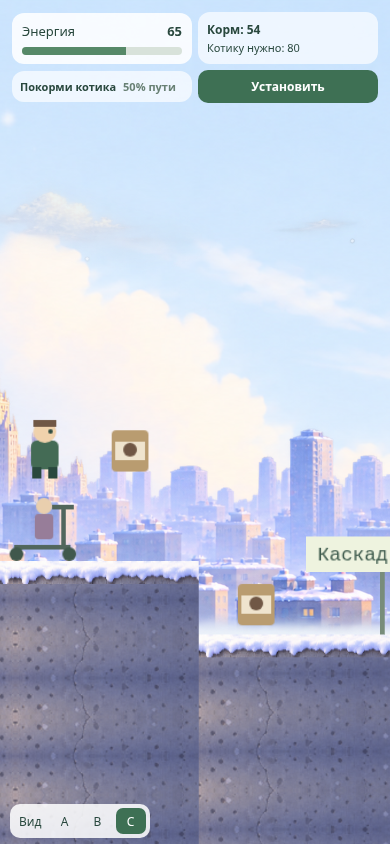
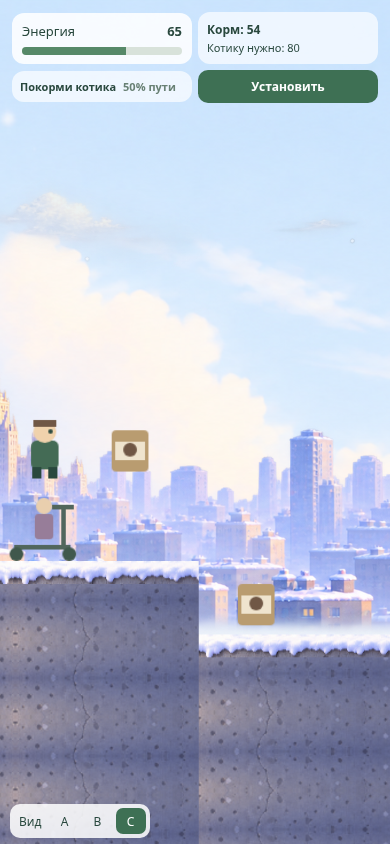
Add chunky floating islands and pit rubbish; remove lamps and billboards

Changed region(s): [[0.7692, 0.6161, 1.0, 0.7701]]

diff --git a/src/winter-environment.ts b/src/winter-environment.ts
@@ -20,7 +20,7 @@ export class WinterEnvironment {
   static preload(scene: Phaser.Scene) {
     for (const { file } of environmentAssets) {
       // No current four-step staircase matches this sprite's silhouette.
-      if (file === 'stairs_winter.png') continue;
+      if (['stairs_winter.png', 'streetlamp_winter.png', 'hazard_slush.png'].includes(file)) continue;
       const key = `environment:${file}`;
       if (!scene.textures.exists(key)) scene.load.image(key, `${import.meta.env.BASE_URL}assets/environment/winter/${file}`);
     }
@@ -75,16 +75,23 @@ export class WinterEnvironment {
     }
     for (const p of s.routePlatforms) {
       const file = p.width <= 100 ? 'platform_floating_small.png' : 'platform_short.png';
-      const cap = this.snow(file, p.width, 5, 0, 1);
-      const c = canvas(p.width * resolution, s.platformThickness * resolution), ctx = c.getContext('2d')!;
-      ctx.scale(resolution, resolution);
-      ctx.fillStyle = '#9498b0'; ctx.fillRect(0, 0, p.width, s.platformThickness);
-      const source = this.source(file), [x0, , x1] = this.bounds(file);
-      ctx.drawImage(source, x0, 405, x1 - x0, 65, 0, 4, p.width, s.platformThickness - 4);
-      ctx.drawImage(cap, 0, 0, p.width, 5);
-      ctx.strokeStyle = '#5b7189'; ctx.setLineDash([5, 4]); ctx.lineWidth = 1;
-      ctx.beginPath(); ctx.moveTo(0, s.platformThickness - .5); ctx.lineTo(p.width, s.platformThickness - .5); ctx.stroke();
-      this.image(c, `platform:${p.x}`, p.x, p.y, depth.terrain);
+      const height = Math.max(30, Math.round(p.width * .32));
+      const c = canvas(p.width * resolution, height * resolution), ctx = c.getContext('2d')!;
+      const source = this.source(file), [x0, , x1, y1] = this.bounds(file);
+      // Keep the full stone and icicle silhouette instead of compressing it
+      // into the 12px physics proxy. Only the top is collidable (one-way).
+      const sample = canvas(source.width, source.height), sampleCtx = sample.getContext('2d')!;
+      sampleCtx.drawImage(source, 0, 0);
+      const pixels = sampleCtx.getImageData(0, 0, sample.width, sample.height).data;
+      for (let x = 0; x < c.width; x++) {
+        const sx = Math.min(x1 - 1, Math.floor(x0 + (x1 - x0) * x / c.width));
+        let top = 0;
+        while (top < y1 - 1 && pixels[(top * source.width + sx) * 4 + 3] < 128) top++;
+        ctx.drawImage(source, sx, top, 1, y1 - top, x, 0, 1, c.height);
+      }
+      // Solid terrain clips the decorative underside at the closest low ledge;
+      // it must never paint over a real lower-route surface.
+      this.image(c, `platform:${p.x}`, p.x, p.y, depth.terrain - .5);
     }
     WinterEnvironment.baked.set(scene.textures, this.bakedEntries);
     this.finishCreate();
@@ -131,15 +138,16 @@ export class WinterEnvironment {
   }
 
   private slush(x: number, width: number, y: number) {
-    const file = 'hazard_slush.png', [x0, y0, x1, y1] = this.bounds(file);
-    const c = canvas(width * resolution, 12 * resolution), ctx = c.getContext('2d')!;
+    const file = 'pit_rubbish_winter.png', [x0, y0, x1, y1] = this.bounds(file);
+    const height = 30;
+    const c = canvas(width * resolution, height * resolution), ctx = c.getContext('2d')!;
     ctx.scale(resolution, resolution);
-    // Whole silhouette for a small pit; repeated modules for the boost pit.
-    for (let dx = 0; dx < width; dx += 135) {
-      const w = Math.min(135, width - dx);
-      ctx.drawImage(this.source(file), x0, y0, (x1 - x0) * w / Math.min(width, 135), y1 - y0, dx, 0, w, 12);
+    const moduleWidth = 180;
+    for (let dx = 0; dx < width; dx += moduleWidth) {
+      const w = Math.min(moduleWidth, width - dx);
+      ctx.drawImage(this.source(file), x0, y0, (x1 - x0) * w / moduleWidth, y1 - y0, dx, 0, w, height);
     }
-    this.image(c, `slush:${x}`, x, y - 1, 1);
+    this.image(c, `slush:${x}`, x, y - height + 9, 1);
   }
 
   private image(c: HTMLCanvasElement, name: string, x: number, y: number, z: number) {
@@ -164,8 +172,7 @@ export class WinterEnvironment {
 
   private decorations() {
     // Presentation placements only; all props sit behind the playable lane.
-    for (const x of [160, 5000, 10510]) this.prop('garage_winter.png', x, groundYAt(x) + 8, 160, depth.scenery).setTint(0xc3d0de);
-    for (const x of [880, 1740, 4690, 5660, 7380, 8780, 10480]) this.prop('streetlamp_winter.png', x, groundYAt(x) + 3, 25, depth.scenery + 1).setTint(0xd6dfe7);
+    for (const x of [160, 10510]) this.prop('garage_winter.png', x, groundYAt(x) + 8, 160, depth.scenery).setTint(0xc3d0de);
     for (const x of [650, 1640, 5090, 7000, 8660]) this.prop('railing_winter.png', x, groundYAt(x) + 3, 105, depth.scenery + 2).setTint(0xc7d5e3);
   }
 

diff --git a/src/main.ts b/src/main.ts
@@ -118,19 +118,9 @@ class PlayScene extends Phaser.Scene {
       detail.strokeRect(box.x + 1, y + 1, box.width - 2, box.height - 2);
       detail.lineBetween(box.x + 3, y + 3, box.x + box.width - 3, groundYAt(box.x) - 3);
     }
-    for (const sign of s.signs) this.sign(sign.x, sign.text);
-    // Опоры находятся за игровой дорожкой: они поддерживают навес визуально,
-    // но не являются препятствиями в проходе перед ними.
-    const supports = this.add.graphics().setDepth(-1);
+    // Floating one-way platforms: only the existing physics proxy remains here.
     for (const platform of s.routePlatforms) {
-      const underside = platform.y + s.platformThickness;
-      supports.fillStyle(0xc1ccd6);
-      supports.lineStyle(3, 0xc1ccd6);
-      for (const postX of [platform.x + 16, platform.x + platform.width - 23]) {
-        supports.fillRect(postX, underside, 7, groundYAt(postX) - underside);
-        supports.lineBetween(postX + 3, underside + 25, postX + 24, underside);
-      }
-      // A light, open awning with a strong top edge communicates a one-way surface.
+      // The visual stone island is separate from this unchanged one-way proxy.
       const awning = this.add.rectangle(platform.x + platform.width / 2, platform.y + s.platformThickness / 2,
         platform.width, s.platformThickness, 0x788c7b, .55).setVisible(false);
       upperRoute.add(awning);
@@ -140,9 +130,7 @@ class PlayScene extends Phaser.Scene {
       const body = (upperRoute.getChildren().at(-1) as Phaser.GameObjects.Rectangle).body as Phaser.Physics.Arcade.StaticBody;
       // Односторонняя опора: края и низ никогда не блокируют автобег.
       body.checkCollision.left = body.checkCollision.right = body.checkCollision.down = false;
-      if (platform.label) this.add.text(platform.x + 22, platform.y - 28, platform.label, { fontSize: '15px', color: '#3c594b' });
     }
-    this.sign(s.levelWidth - 600, 'Ещё немного →');
     this.tanya = this.physics.add.sprite(100, s.floorY - 25, 'tanya');
     this.tanya.setSize(24, 50).setOffset(8, 4).setMaxVelocity(500, 700);
     this.physics.add.collider(this.tanya, ground);
@@ -190,7 +178,6 @@ class PlayScene extends Phaser.Scene {
     const catX = s.levelWidth - 150;
     this.add.image(catX, groundYAt(catX) - 22, 'cat').setDepth(8);
     this.add.text(catX, groundYAt(catX) - 75, 'Мяу…', { fontSize: '22px', color: '#29483e' }).setOrigin(.5);
-    this.sign(catX - 260, 'Покорми котика');
     if (!controls) controls = new TouchControls(this.game.canvas, hideHint);
     element('#food-goal').textContent = `Котику нужно: ${s.requiredFood}. ${s.bonusFood}+ — кошачий пир!`;
     this.tanya.setDepth(10);
@@ -507,10 +494,6 @@ class PlayScene extends Phaser.Scene {
     this.cameras.main.scrollY = this.framing.baseY + Phaser.Math.Clamp(this.cameras.main.scrollY - previousBase, -40, 0);
     this.winterBackground?.resize(this.cameras.main, s.floorY - this.framing.baseY);
     controls?.reset();
-  }
-  private sign(x: number, text: string) {
-    this.add.rectangle(x, groundYAt(x) - 30, 4, 60, 0x788c7b);
-    this.add.text(x, groundYAt(x) - 70, text, { fontSize: '17px', color: '#3c594b', backgroundColor: '#eef3df', padding: { x: 10, y: 7 } }).setOrigin(.5);
   }
   private makeTextures() {
     if (this.textures.exists('tanya')) return;

diff --git a/src/winter-environment-assets.ts b/src/winter-environment-assets.ts
@@ -107,5 +107,6 @@ export const environmentAssets = [
       1569,
       836
     ]
-  }
+  },
+  { file: "pit_rubbish_winter.png", contentBoundsAlpha128: [12, 390, 2161, 678] },
 ] as const;

diff --git a/docs/winter-environment/phone-feedback.md b/docs/winter-environment/phone-feedback.md
@@ -1,0 +1,39 @@
+# Phone feedback: floating islands, pit rubbish, no billboards
+
+The existing Level V3 geometry, five one-way top surfaces and their physics bodies
+are unchanged. No level-design or energy changes.
+
+- Removed all seven standalone streetlamps and their preload request.
+- Garage props only at x160 and x10510: removed x5000.
+- Platforms use the full snow/stone/icicle PNG silhouette, 30–38px visual depth
+  instead of 12px. Landing tops and widths remain unchanged. New stone grows
+  downward from the exact landing surface, so it does not create an invisible
+  step or change jump heights. The physical12px proxy remains one-way, with
+  non-blocking sides/underside. All decorative support posts/braces are removed.
+- Platform art is behind filled terrain: near the lowest optional platform,
+  its decorative bottom is hidden by the real lower ground instead of painting
+  over the lower route. Its full visible thickness is therefore limited there
+  by the pre-existing ground clearance; no platform was raised or moved.
+- New transparent GPT Image asset `pit_rubbish_winter.png`,2172×724RGBA,
+  content bounds[12,390,2161,678]. Piles of muddy snow, cardboard, red/teal bags
+  and blue plastic bottles line all four original pits. 30px art modules repeat
+  at180px width and clip inside pit X bounds. The pile reaches21px above the
+  floor and9px below it. No body or damage; pit/fail-forward mechanics unchanged.
+- Removed all world billboards and posts, section captions, bonus caption and
+  final directional signs. HUD, pickup feedback and cat speech remain.
+  The audit script no longer counts non-rendered signs as visible decisions.
+
+Verification: `npm run test:environment`, `node scripts/audit-v3.mjs`,
+`node scripts/validate-collisions.mjs`, TypeScript and `npm run build` pass.
+The visual check confirms no lamps, exactly two garage props, no supports or
+billboards, unchanged collision rectangles/bench trigger, no physics on new art,
+no terrain-top holes/overhangs, stable resize and replay. Seven full-run outcomes
+match the previous integration's time/food/energy/hits/recovery within1e−4.
+Normal42.10s/98food/15.825energy; collector41.23s/103/6.295;
+zero-start52.50s/92/10.0025. Four deliberate pit falls still produce four returns.
+
+44 visual objects,36 cached textures; collision geometry is still28 rectangles.
+Current images: [platforms26%](26.png), [pit40%](40.png),
+[10%](10.png),[30%](30.png),[50%](50.png),[70%](70.png),[90%](90.png).
+The previous integration report records the earlier12px artwork, lamps and signs;
+this document supersedes those presentation details. No further redesign.

diff --git a/docs/winter-environment/README.md b/docs/winter-environment/README.md
@@ -1,5 +1,8 @@
 # Winter environment integration — 2026-10-17
 
+> Latest phone-feedback changes: [floating islands, pit rubbish, no lamps or billboards](phone-feedback.md).
+> Presentation numbers below describe the original integration; use the linked update for the current state.
+
 Base: `28b0ab1`. Read current GAME_DESIGN.md in full, LEVEL_REFERENCES.md, the
 scene, terrain, settings and PNG metadata before editing. Existing Level V3 is
 the sole geometry source. This pass changes rendering, not the level.
